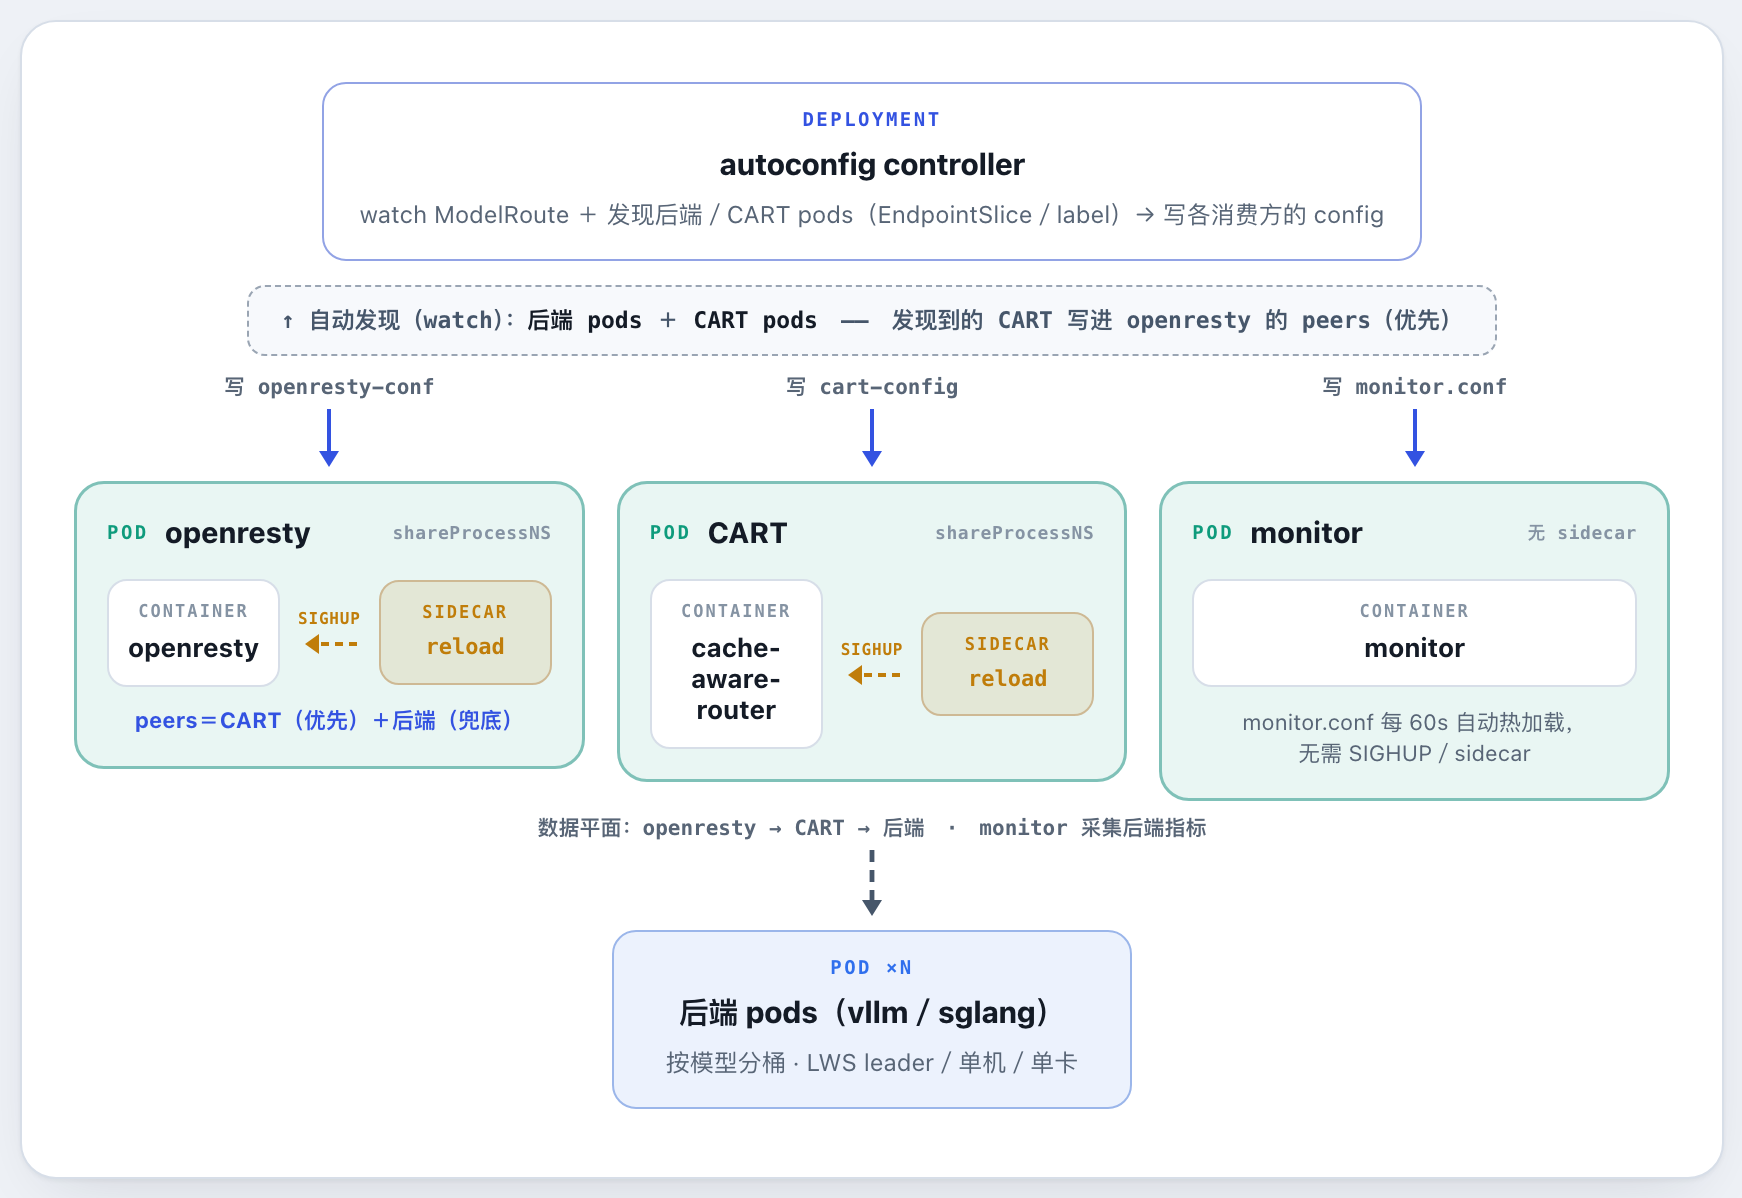
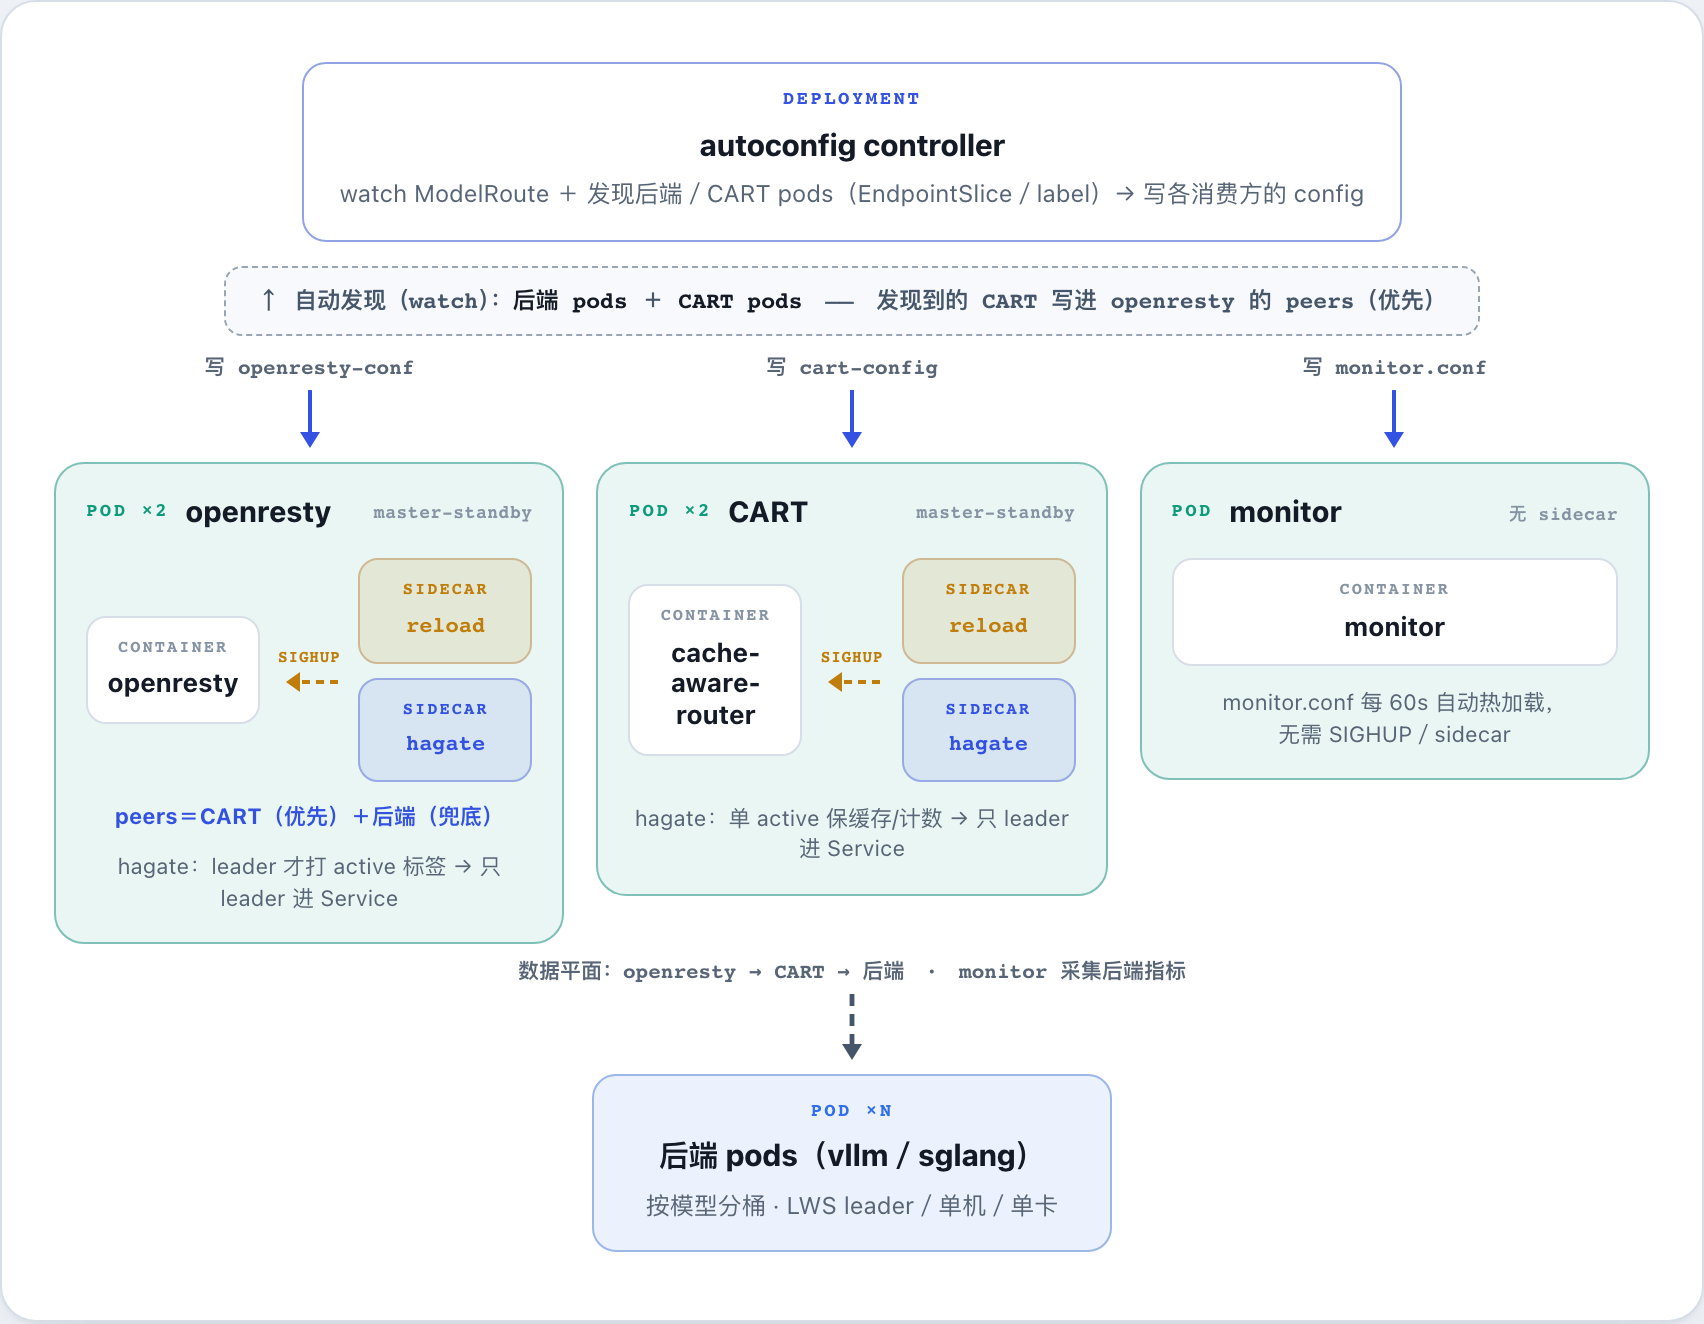
docs(架构图): 补 hagate sidecar —— openresty/CART 画成 pod×2 master-standby(reload+hagate 两 sidecar),monitor 单副本无 sidecar;PNG 由 architecture.html 经 playwright 重渲

diff --git a/docs/architecture.html b/docs/architecture.html
@@ -96,6 +96,10 @@
   .ctr.rl{border-color:color-mix(in srgb,var(--side) 38%,var(--line));background:var(--side-soft)}
   .ctr.rl .clab{color:var(--side)}
   .ctr.rl .cnm{font:600 11px ui-monospace,monospace;color:var(--side);line-height:1.25}
+  .sides{display:flex;flex-direction:column;gap:7px}
+  .ctr.ha{border-color:color-mix(in srgb,var(--accent) 38%,var(--line));background:var(--accent-soft)}
+  .ctr.ha .clab{color:var(--accent)}
+  .ctr.ha .cnm{font:600 11px ui-monospace,monospace;color:var(--accent);line-height:1.25}
   .hup{display:flex;flex-direction:column;align-items:center;gap:2px;color:var(--side)}
   .hup .hl{font:700 8px ui-monospace,monospace;letter-spacing:.05em}
   .hup svg{display:block}
@@ -128,7 +132,7 @@
 <div class="wrap">
   <p class="eyebrow">架构设计 · 讨论稿</p>
   <h1>autoconfig 怎么和 openresty ／ CART ／ monitor 协作</h1>
-  <p class="lede">autoconfig 自动发现 <b>后端 pods 与 CART pods</b>，给 <b>openresty、CART、monitor</b> 各写一份配置——发现到的 CART 会被<b>注册为 openresty 的优先 peer</b>（后端兜底）。openresty／CART 由 <b>reload sidecar</b> 收 SIGHUP 热重载；<b>monitor 每 60s 自动热加载 <span class="mono">monitor.conf</span>，无需 sidecar</b>。实线＝配置流，虚线＝请求／健康流。</p>
+  <p class="lede">autoconfig 自动发现 <b>后端 pods 与 CART pods</b>，给 <b>openresty、CART、monitor</b> 各写一份配置——发现到的 CART 会被<b>注册为 openresty 的优先 peer</b>（后端兜底）。openresty／CART 由 <b>reload sidecar</b> 收 SIGHUP 热重载、并各带一个 <b>hagate sidecar</b>（2 副本 master-standby，只有 leader 打 active 标签进 Service）；<b>monitor 每 60s 自动热加载 <span class="mono">monitor.conf</span>，无需 sidecar</b>。实线＝配置流，虚线＝请求／健康流。</p>
 
   <div class="legend">
     <span><svg width="34" height="10" viewBox="0 0 34 10"><line x1="0" y1="5" x2="26" y2="5" stroke="var(--accent)" stroke-width="2.4"/><path d="M26,1 L33,5 L26,9 Z" fill="var(--accent)"/></svg>配置流（autoconfig 写 config → 消费方重载）</span>
@@ -154,13 +158,17 @@
         <div class="down"><span class="l">写 openresty-conf</span>
           <svg width="12" height="30" viewBox="0 0 12 30"><line x1="6" y1="0" x2="6" y2="21" stroke="currentColor" stroke-width="2"/><path d="M1,21 L6,29 L11,21 Z" fill="currentColor"/></svg></div>
         <div class="pod">
-          <div class="pod-hd"><span class="kind">pod</span><span class="pnm">openresty</span><span class="spn">shareProcessNS</span></div>
+          <div class="pod-hd"><span class="kind">pod ×2</span><span class="pnm">openresty</span><span class="spn">master-standby</span></div>
           <div class="ctrs">
             <div class="ctr app"><span class="clab">container</span><div class="cnm">openresty</div></div>
             <div class="hup"><span class="hl">SIGHUP</span><svg width="28" height="12" viewBox="0 0 28 12"><line x1="28" y1="6" x2="9" y2="6" stroke="currentColor" stroke-width="2" stroke-dasharray="4 3"/><path d="M9,1 L2,6 L9,11 Z" fill="currentColor"/></svg></div>
-            <div class="ctr rl"><span class="clab">sidecar</span><div class="cnm">reload</div></div>
+            <div class="sides">
+              <div class="ctr rl"><span class="clab">sidecar</span><div class="cnm">reload</div></div>
+              <div class="ctr ha"><span class="clab">sidecar</span><div class="cnm">hagate</div></div>
+            </div>
           </div>
           <div class="mnote peers">peers＝CART（优先）＋后端（兜底）</div>
+          <div class="mnote">hagate：leader 才打 active 标签 → 只 leader 进 Service</div>
         </div>
       </div>
 
@@ -168,12 +176,16 @@
         <div class="down"><span class="l">写 cart-config</span>
           <svg width="12" height="30" viewBox="0 0 12 30"><line x1="6" y1="0" x2="6" y2="21" stroke="currentColor" stroke-width="2"/><path d="M1,21 L6,29 L11,21 Z" fill="currentColor"/></svg></div>
         <div class="pod">
-          <div class="pod-hd"><span class="kind">pod</span><span class="pnm">CART</span><span class="spn">shareProcessNS</span></div>
+          <div class="pod-hd"><span class="kind">pod ×2</span><span class="pnm">CART</span><span class="spn">master-standby</span></div>
           <div class="ctrs">
             <div class="ctr app"><span class="clab">container</span><div class="cnm">cache-aware-router</div></div>
             <div class="hup"><span class="hl">SIGHUP</span><svg width="28" height="12" viewBox="0 0 28 12"><line x1="28" y1="6" x2="9" y2="6" stroke="currentColor" stroke-width="2" stroke-dasharray="4 3"/><path d="M9,1 L2,6 L9,11 Z" fill="currentColor"/></svg></div>
-            <div class="ctr rl"><span class="clab">sidecar</span><div class="cnm">reload</div></div>
+            <div class="sides">
+              <div class="ctr rl"><span class="clab">sidecar</span><div class="cnm">reload</div></div>
+              <div class="ctr ha"><span class="clab">sidecar</span><div class="cnm">hagate</div></div>
+            </div>
           </div>
+          <div class="mnote">hagate：单 active 保缓存/计数 → 只 leader 进 Service</div>
         </div>
       </div>
 
@@ -204,5 +216,5 @@
 
   </div>
 
-  <footer><span class="mono">autoconfig</span> ＝ 中心 controller（发现＋写配置）＋ 各 pod 的 reload sidecar（openresty／CART 收 SIGHUP；monitor 靠自身 60s 热加载）· 三者零改</footer>
+  <footer><span class="mono">autoconfig</span> ＝ 中心 controller（发现＋写配置）＋ 各 pod 的 reload sidecar（openresty／CART 收 SIGHUP；monitor 靠自身 60s 热加载）＋ hagate sidecar（openresty／CART 主备门控）· 三个镜像</footer>
 </div>
